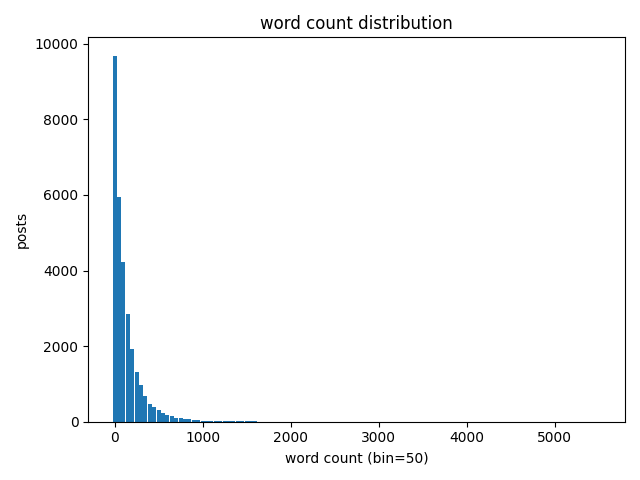
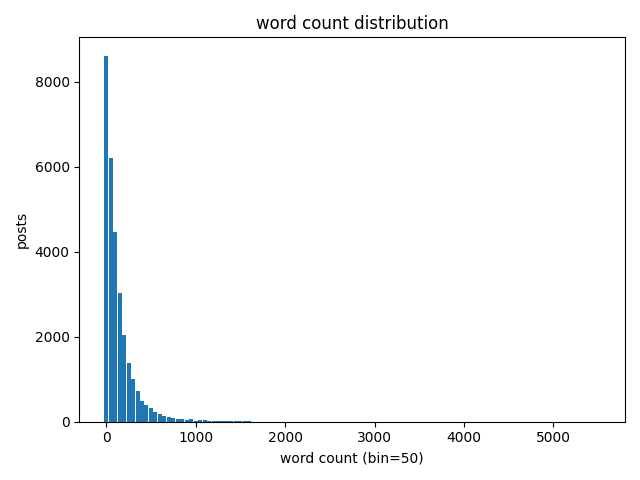
fix

diff --git a/example.py b/example.py
@@ -3,15 +3,14 @@
 
 from collections import defaultdict
 from pathlib import Path
-from pydoc import resolve
+import random
 import re
-from tkinter import OUTSIDE
 import numpy as np
 import pandas as pd
 from collections import Counter
 import matplotlib.pyplot as plt
 from io import StringIO
-
+from sklearn.feature_extraction.text import TfidfVectorizer
 
 CSV_PATH="depression-sampled.csv"
 OUTDIR=Path("chang_shen_result")
@@ -51,7 +50,6 @@ def tokenize(text):
 #列表所有的词都转为小写，不在stop words里的保留
 
 total_rows=0
-total_words=0
 #set:自动去重
 #使用：lowercase，【unknown】--->len（author）
 authors=set()
@@ -61,6 +59,9 @@ date_min=None
 date_max=None
 #Counter:Counter是计数器字典
 month_counts=Counter()
+
+#EXTRA:MN local time
+month_counts_mn=Counter()
 word_counts=Counter()
 
 #TOKEN_RE.findall(text)#TOKEN_RE.findall(text)
@@ -69,18 +70,24 @@ hist_bins=defaultdict(int)
 
 #MAIN
 for chunk in pd.read_csv(CSV_PATH, chunksize=CHUNK_SIZE,dtype=str):
-    for c in ["author","created_utc",'selftext']:
+    for c in ["author","created_utc","selftext","title"]:
         if c not in chunk.columns:
             chunk[c]=""
 
-    st=chunk["selftext"].fillna("")
+    #EXTRA:有可能有些有用信息在title里面，把title也添加到分析文本中
+    complete_text=(chunk["title"].fillna("")+" "+chunk["selftext"].fillna("")).astype(str)
+    st=complete_text
+
     for txt in st:
         for t in tokenize(txt):
             word_counts[t]+=1
-    authors.update(chunk["author"].fillna("[unknown]").str.lower().tolist())
+
+    #EXTRA:过滤无效作者
+    ignore_authors={"automoderator","[deleted]","[unknown]"}
+    authors.update(chunk["author"].fillna("[unknown]").str.lower().pipe(lambda s:s[~s.isin(ignore_authors)]).tolist())
     
-    words_per_row=st.str.split().map(len).astype(int)
-    chars_per_row=st.str.len().astype(int)
+    words_per_row=st.str.split().map(len).fillna(0).astype(int)
+    chars_per_row=st.str.len().fillna(0).astype(int)
     for wc in words_per_row:
         bin_id=(wc//HIST_BIN)*HIST_BIN
         hist_bins[bin_id]+=1
@@ -93,18 +100,24 @@ for chunk in pd.read_csv(CSV_PATH, chunksize=CHUNK_SIZE,dtype=str):
 
 
     cu=chunk["created_utc"].fillna("")
-    dt_epoch=pd.to_numeric(cu,errors="coerce")
-    dt=pd.to_datetime(dt_epoch,unit="s",utc=True,errors="coerce")
+    dt_utc=pd.to_numeric(cu,errors="coerce")
+    dt=pd.to_datetime(dt_utc,unit="s",utc=True,errors="coerce")
     need_fallback=dt.isna()
     if need_fallback.any():
         dt.loc[need_fallback]=pd.to_datetime(cu[need_fallback],utc=True,errors="coerce")
 
+    #EXTRA:date in minneapolis time!
+    dt_mn=dt.dt.tz_convert("America/Chicago")
+    
     if dt.notna().any():
         dmin=dt.min()
         dmax=dt.max()
         date_min=dmin if date_min is None or dmin<date_min else date_min
         date_max=dmax if date_max is None or dmax>date_max else date_max
         month_counts.update(dt.dt.to_period("M").astype(str).value_counts().to_dict())
+        #Extra:MN local time
+        month_mn=dt_mn.dt.to_period("M").astype(str).value_counts().to_dict()
+        month_counts_mn.update(month_mn)
 
     avg_words=(sum_words/total_rows) if total_rows else 0.0
     avg_chars=(sum_chars/total_rows) if total_rows else 0.0
@@ -124,38 +137,91 @@ for chunk in pd.read_csv(CSV_PATH, chunksize=CHUNK_SIZE,dtype=str):
 
 
 
-    if month_counts:
-        mc=pd.Series(month_counts).sort_index()
-        plt.figure()
-        mc.plot(kind="line",marker="o")
-        plt.title("post per month (UTC)")
-        plt.xlabel("month")
-        plt.ylabel("posts")
-        plt.tight_layout()
-        plt.savefig(OUTDIR/"posts_per_month.png")
-        plt.close()
 
-    if hist_bins:
-        hb=pd.Series(hist_bins).sort_index()
-        plt.figure()
-        plt.bar(hb.index.astype(int),hb.values.astype(int),width=HIST_BIN*0.9)
-        plt.title("word count distribution")
-        plt.xlabel(f"word count (bin={HIST_BIN})")
-        plt.ylabel("posts")
-        plt.tight_layout()
-        plt.savefig(OUTDIR/"word_count_hist.png")
-        plt.close()
+    #EXTRA:TF-IDF,突出相对独特的词
+    _rng=random.Random(42)
+    sample_texts=[]
+    seen=0
+    for txt in st:
+        if not txt:
+            continue
+        seen+=1
+        if len(sample_texts)<10000:
+            sample_texts.append(txt)
+        else:
+            j=_rng.randint(1,seen)
+            if j<=10000:
+                sample_texts[j-1]=txt
 
-    if not top20.empty:
-        plt.figure()
-        idx=np.arange(len(top20))
-        plt.bar(idx,top20["frequency"].values.astype(int))
-        plt.xticks(idx,top20["word"].tolist(),rotation=75)
-        plt.title("top 20 words")
-        plt.xlabel("word")
-        plt.ylabel("frequency")
-        plt.tight_layout()
-        plt.savefig(OUTDIR/"top20_words.png")
-        plt.close()
+    vec=TfidfVectorizer(stop_words="english",token_pattern=r"(?u)\b[a-zA-Z]{3,}\b",max_features=20000)
+    X=vec.fit_transform(sample_texts)
+    scores=X.sum(axis=0).A1
+    terms=vec.get_feature_names_out()
+    idx=scores.argsort()[::-1][:20]
+    tfidf_top20=pd.DataFrame({"word":terms[idx],"tfidf_score":scores[idx]})
+    tfidf_top20.to_csv(OUTDIR/"tfidf_top20.csv",index=False)
 
-    print("done, dir:",OUTDIR.resolve())
+
+#EXTRA：指标更稳健：加入中位数、分位数、极端值裁剪
+def approx_quantile_from_hist(hist:dict,binw:int,q:float)->float:
+    if not hist:
+        return 0.0
+    total=sum(hist.values())
+    target=total*q
+    acc=0
+    for start in sorted(hist.keys()):
+        acc+=hist[start]
+        if acc>=target:
+            return start+binw/2.0
+    last=max(hist.keys())
+    return last+binw/2.0
+median_words=approx_quantile_from_hist(hist_bins,HIST_BIN,0.5)
+p90_words=approx_quantile_from_hist(hist_bins,HIST_BIN,0.9)
+
+
+
+
+if month_counts:
+    mc=pd.Series(month_counts).sort_index()
+    plt.figure()
+    mc.plot(kind="line",marker="o")
+    plt.title("post per month (UTC)")
+    plt.xlabel("month")
+    plt.ylabel("posts")
+    plt.tight_layout()
+    plt.savefig(OUTDIR/"posts_per_month.png")
+    plt.close()
+
+    
+
+    
+#EXTRA:用pandas.cut生成箱
+bins=list(range(0,int(words_per_row.max())+51,50))
+cats=pd.cut(words_per_row,bins=bins,right=False)
+hist_counts=cats.value_counts().sort_index()
+
+
+if hist_bins:
+    hb=pd.Series(hist_bins).sort_index()
+    plt.figure()
+    plt.bar(hb.index.astype(int),hb.values.astype(int),width=HIST_BIN*0.9)
+    plt.title("word count distribution")
+    plt.xlabel(f"word count (bin={HIST_BIN})")
+    plt.ylabel("posts")
+    plt.tight_layout()
+    plt.savefig(OUTDIR/"word_count_hist.png")
+    plt.close()
+
+if not top20.empty:
+    plt.figure()
+    idx=np.arange(len(top20))
+    plt.bar(idx,top20["frequency"].values.astype(int))
+    plt.xticks(idx,top20["word"].tolist(),rotation=75)
+    plt.title("top 20 words")
+    plt.xlabel("word")
+    plt.ylabel("frequency")
+    plt.tight_layout()
+    plt.savefig(OUTDIR/"top20_words.png")
+    plt.close()
+
+print("done, dir:",OUTDIR.resolve())
